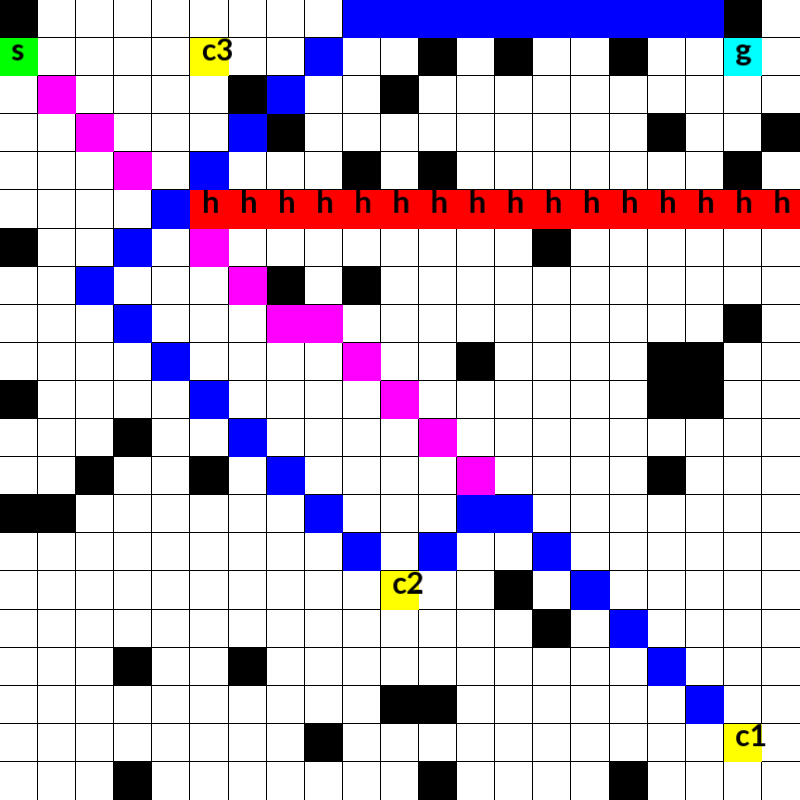
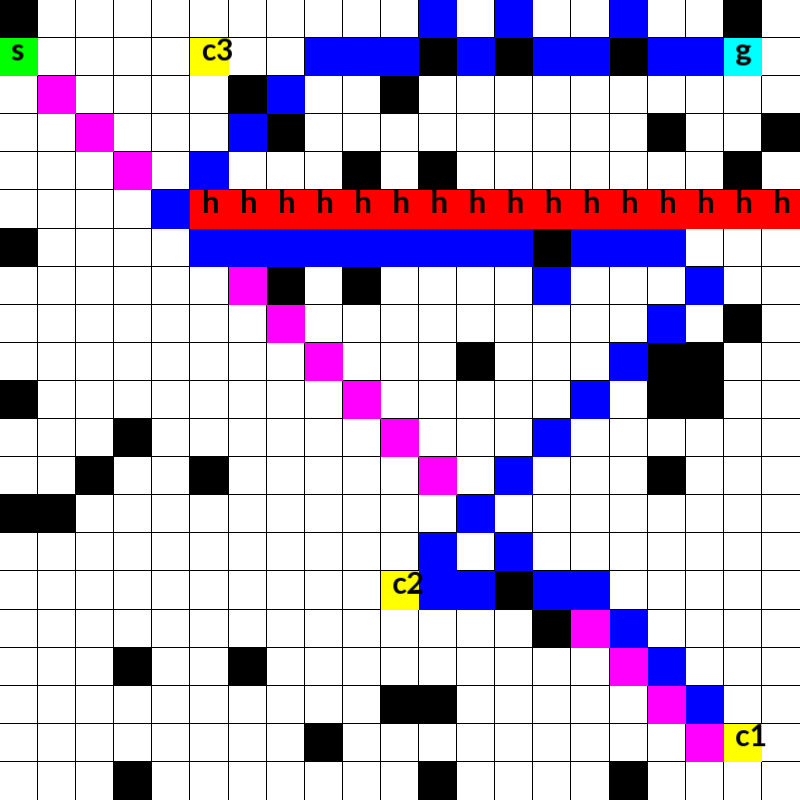
A* for search in task domain is implemented

diff --git a/LTLStuff/TEGProblem.cpp b/LTLStuff/TEGProblem.cpp
@@ -10,8 +10,9 @@ TEGProblem::TEGProblem(const string formula_str,
             const map<string, set<GridState>> ap_mapping,
             const shared_ptr<GridWorldDomain> domain,
             const GridState& start_domain_state,
-            int problem_id, bool on_the_fly, bool cache, bool feedback)
+            int problem_id, bool on_the_fly, bool cache, bool feedback, bool use_landmarks)
     : domain_(domain), start_domain_state_(start_domain_state), problem_id_(problem_id), on_the_fly_(on_the_fly), cache_(cache),
+    use_landmarks_(use_landmarks),
     bdd_dict_(make_shared<spot::bdd_dict>()),
     dfa_manager_(make_shared<DFAManager>(bdd_dict_, feedback)),
     domain_manager_(make_shared<DomainManager>(bdd_dict_, domain_, ap_mapping)),
@@ -160,17 +161,31 @@ void TEGProblem::realize_dfa_trace(shared_ptr<DFANode>& endTraceNode) {
 
     size_t dfa_start_state = dfa_trace.front();
     ProductState start_state(start_domain_state_, dfa_start_state);
-    // TODO: change to a map of priority queues!!!  
-    
-    map<size_t, priority_queue<pair<int, ProductState>, vector<pair<int, ProductState>>, greater<pair<int, ProductState>>>> regionQueues;
-
-    regionQueues[dfa_start_state].push(make_pair(SUCCESS_COST, start_state));
 
     size_t currentRegionIndex = 0;
     size_t maxRegionIndexReached = 0;
 
     set<ProductState> visited;
     visited.insert(start_state);
+
+    // Initialize a map of priority queues 
+    // (one queue for each DFA state in the trace)
+    map<size_t, priority_queue<pair<int, ProductState>, vector<pair<int, ProductState>>, greater<pair<int, ProductState>>>> regionQueues;
+
+    int curr_state_heuristic;
+    int next_state_heuristic;
+
+    // We need this for computing heuristics.
+    map<size_t, set<GridState>> landmarks;
+
+    if (use_landmarks_) {
+        auto next_dfa_edge_condition = dfa_nodes.at(1)->getParentEdgeCondition();
+        landmarks[dfa_start_state] = product_manager_->sample_landmarks(next_dfa_edge_condition, start_domain_state_);
+
+        curr_state_heuristic = start_state.compute_heuristic_cost(landmarks[dfa_start_state]);
+    }
+
+    regionQueues[dfa_start_state].push(make_pair(curr_state_heuristic, start_state));
 
     map<ProductState, vector<ProductState>> parent_map;
 
@@ -190,7 +205,7 @@ void TEGProblem::realize_dfa_trace(shared_ptr<DFANode>& endTraceNode) {
         // Queue is not empty!
         auto current_state_pair = queue.top();
         ProductState current_state = current_state_pair.second;
-        cout << "Popped the state " << current_state << " with score " << current_state_pair.first << endl;
+        // cout << "Popped the state " << current_state << " with score " << current_state_pair.first << endl;
         queue.pop();
 
         // Check if state was expanded?
@@ -244,11 +259,6 @@ void TEGProblem::realize_dfa_trace(shared_ptr<DFANode>& endTraceNode) {
 
                 currentRegionIndex++;
 
-                // TODO: compute landmarks for the next DFA region:
-                // 1) Sample k points in the next equivalence region (aka landmarks). 
-                // 2) Define heuristic as a distance to the closest sampled point.
-                // 3) Not an admissible heuristic but we don't care about optimality of the path, so it's fine.
-
                 // Remember the last dfa state we were able to reach.
                 if (maxRegionIndexReached < currentRegionIndex) {
                     maxRegionIndexReached = currentRegionIndex;
@@ -262,12 +272,30 @@ void TEGProblem::realize_dfa_trace(shared_ptr<DFANode>& endTraceNode) {
                     return;
                 }
 
+                // Compute landmarks for the next DFA region:
+                // 1) Sample k points in the next equivalence region (aka landmarks). 
+                // 2) Define heuristic as a distance to the closest sampled point.
+                // 3) Not an admissible heuristic but we don't care about optimality of the path, so it's fine.
+
+                if (use_landmarks_ && landmarks.count(next_dfa_state) == 0) {
+                    auto next_dfa_edge_condition = dfa_nodes.at(currentRegionIndex + 1)->getParentEdgeCondition();
+                    landmarks[next_dfa_state] = product_manager_->sample_landmarks(next_dfa_edge_condition, next_state.get_domain_state());
+                }
+
             } 
 
-            // TODO: compute the heuristic score for this state and push it into the queue.
+            // Compute the heuristic score for this state and push it into the queue.
+            int curr_state_cost = current_state_pair.first;
+            // Default cost of an edge is 1.
+            int next_state_cost = curr_state_cost + DEFAULT_COST; 
+            if (use_landmarks_) {
+                int curr_heuristic_cost = current_state.compute_heuristic_cost(landmarks[curr_dfa_state]);
+                int next_heuristic_cost = next_state.compute_heuristic_cost(landmarks[next_dfa_state]);
+                next_state_cost += (next_heuristic_cost - curr_heuristic_cost);
+            }
 
             // Push this new product state onto the corresponding queue.
-            regionQueues[next_dfa_state].push(make_pair(current_state_pair.first + DEFAULT_COST, next_state));
+            regionQueues[next_dfa_state].push(make_pair(next_state_cost, next_state));
             // This state has been visited now!
             visited.insert(next_state);
         }
@@ -276,6 +304,7 @@ void TEGProblem::realize_dfa_trace(shared_ptr<DFANode>& endTraceNode) {
     // Update the cost for the dfa transition we couldn't realize.
     dfa_manager_->update_dfa_transition_cost(dfa_nodes.at(maxRegionIndexReached + 1), FAILURE_COST);
 }
+
 
 vector<ProductState> TEGProblem::construct_path(const map<ProductState, vector<ProductState>>& parent_map, ProductState target_state, bool cached, size_t start_dfa_state) {
     vector<ProductState> path;

diff --git a/LTLStuff/ProductManager.cpp b/LTLStuff/ProductManager.cpp
@@ -1,5 +1,8 @@
 #include "ProductManager.h"
 
+#include <algorithm> 
+#include <iterator>
+
 using namespace std;
 
 ProductManager::ProductManager(shared_ptr<DomainManager> domain_manager, 
@@ -88,4 +91,38 @@ void ProductManager::print_product_transitions(int in_dfa_state, int out_dfa_sta
             std::cout << endl;
         }
     }
+}
+
+set<GridState> ProductManager::sample_landmarks(const bdd& edge_cond, const GridState& curr_domain_state, size_t num_landmarks) {
+    auto curr_state_bdd = domain_manager_->get_state_bdd(curr_domain_state);
+
+    vector<GridState> potential_landmarks;
+
+    for (const auto& pair : domain_manager_->get_bdd_to_states_map()) {
+        bdd equiv_group_bdd = pair.first;
+        const set<GridState>& domain_states = pair.second;
+
+        if (equiv_group_bdd == curr_state_bdd) {
+            // Skip it: this is the current equivalence group.
+            continue;
+        }
+
+        if (dfa_manager_->is_transition_valid(edge_cond, equiv_group_bdd)) {
+            // Insert elements from set to vector
+            // Might need to make more efficient later.
+            copy(domain_states.begin(), domain_states.end(), back_inserter(potential_landmarks));
+        }
+    }
+
+    // Shuffle and select a subset as landmarks
+    random_device rd;
+    mt19937 g(rd());
+    shuffle(potential_landmarks.begin(), potential_landmarks.end(), g);
+
+    set<GridState> landmarks;
+    for (size_t i = 0; i < min(num_landmarks, potential_landmarks.size()); ++i) {
+        landmarks.insert(potential_landmarks[i]);
+    }
+
+    return landmarks;
 }

diff --git a/LTLStuff/ProductState.h b/LTLStuff/ProductState.h
@@ -8,7 +8,7 @@
 class ProductState {
 public:
     ProductState(const GridState& domain_state, size_t dfa_state)
-    : domain_state_(domain_state), dfa_state_(dfa_state) {}
+    : domain_state_(domain_state), dfa_state_(dfa_state), heuristic_cost_(INT_MAX) {}
 
     // Accessor methods
     GridState get_domain_state() const {
@@ -25,6 +25,24 @@ public:
 
     void cache() { 
         domain_state_.cache();  
+    }
+
+    double distance(const ProductState& other) const {
+        return domain_state_.distance(other.domain_state_);
+    }
+
+    int compute_heuristic_cost(const std::set<GridState>& landmarks) {
+        if (heuristic_cost_ != INT_MAX) {
+            // Has been already computed
+            return heuristic_cost_;
+        }
+        for (const auto& landmark_state : landmarks) {
+            int currentDistance = domain_state_.distance(landmark_state);
+            if (currentDistance < heuristic_cost_) {
+                heuristic_cost_ = currentDistance;
+            }
+        }
+        return heuristic_cost_;
     }
 
     bool operator==(const ProductState& other) const {
@@ -46,6 +64,7 @@ public:
 private:
     GridState domain_state_;
     size_t dfa_state_;
+    int heuristic_cost_;
 };
 
 inline std::ostream& operator<<(std::ostream& os, const ProductState& ps) {

diff --git a/LTLStuff/DFANode.h b/LTLStuff/DFANode.h
@@ -22,7 +22,7 @@ using NodeHeap = boost::heap::fibonacci_heap<
 
 class DFANode : public std::enable_shared_from_this<DFANode>{
 public:
-    DFANode(size_t state, std::shared_ptr<DFANode> parent=nullptr, int parent_edge_cost=DEFAULT_COST, bdd selfEdgeCondition=bdd_true(), bdd parentEdgeCondition=bdd_true());
+    DFANode(size_t state, std::shared_ptr<DFANode> parent=nullptr, int parent_edge_cost=DEFAULT_COST, bdd parentEdgeCondition=bdd_true(), bdd selfEdgeCondition=bdd_true());
 
     // Getters
     size_t getState() const;
@@ -34,8 +34,8 @@ public:
 
     bool updateParentEdgeCost(int new_parent_edge_cost, const std::map<std::shared_ptr<DFANode>, NodeHeap::handle_type>& node_handles, NodeHeap& node_priority_queue);
     
-    bdd getSelfEdgeCondition() const;
-    bdd getParentEdgeCondition() const;
+    bdd& getSelfEdgeCondition();
+    bdd& getParentEdgeCondition();
 
     // Setters
     void addChild(std::shared_ptr<DFANode> child);
@@ -56,8 +56,8 @@ private:
     int parent_edge_cost_;
     int path_from_root_cost_;
 
-    bdd self_edge_condition_;
     bdd parent_edge_condition_;
+    bdd self_edge_condition_;
 
     bool reachable_;
 };

diff --git a/GridWorld/GridState.h b/GridWorld/GridState.h
@@ -2,6 +2,7 @@
 #define GRID_STATE_H
 
 #include <iostream>
+#include <cmath>
 #include "GridAction.h"
 
 class GridState {
@@ -36,6 +37,22 @@ public:
     // Apply a GridAction to the current state and return the resulting state.
     GridState apply(const GridAction& action) const {
         return GridState(x_ + action.deltaX(), y_ + action.deltaY());
+    }
+
+    // Calculate Euclidean distance to another GridState
+    double distance(const GridState& other) const {
+        return std::pow(static_cast<double>(x_) - other.x_, 2) +
+                         std::pow(static_cast<double>(y_) - other.y_, 2);
+    }
+
+    double euclideanDistance(const GridState& other) const {
+        return std::sqrt(std::pow(static_cast<double>(x_) - other.x_, 2) +
+                         std::pow(static_cast<double>(y_) - other.y_, 2));
+    }
+
+    size_t manhattanDistance(const GridState& other) const {
+        return std::abs(static_cast<int>(x_) - static_cast<int>(other.x_)) +
+               std::abs(static_cast<int>(y_) - static_cast<int>(other.y_));
     }
 
 

diff --git a/LTLStuff/DFANode.cpp b/LTLStuff/DFANode.cpp
@@ -1,10 +1,10 @@
 #include "DFANode.h"
 
-DFANode::DFANode(size_t state, std::shared_ptr<DFANode> parent, int parent_edge_cost, bdd selfEdgeCondition, bdd parentEdgeCondition)
+DFANode::DFANode(size_t state, std::shared_ptr<DFANode> parent, int parent_edge_cost, bdd parentEdgeCondition, bdd selfEdgeCondition)
     : dfa_state_(state), parent_(parent),
     parent_edge_cost_(parent_edge_cost),
-    self_edge_condition_(selfEdgeCondition),
     parent_edge_condition_(parentEdgeCondition),
+    self_edge_condition_(selfEdgeCondition),
     reachable_(true) {
         if (!parent_) {
             // This is a root node (initial dfa state).
@@ -38,11 +38,11 @@ int DFANode::getPathCost() const {
     return path_from_root_cost_;
 }
 
-bdd DFANode::getSelfEdgeCondition() const {
+bdd& DFANode::getSelfEdgeCondition() {
     return self_edge_condition_;
 }
 
-bdd DFANode::getParentEdgeCondition() const {
+bdd& DFANode::getParentEdgeCondition() {
     return parent_edge_condition_;
 }
 

diff --git a/main.cpp b/main.cpp
@@ -24,6 +24,9 @@ int main() {
     // Real-time planning feedback: success and failure scores used.
     bool feedback = true;
 
+    // Support for equivalence regions guidance: informed search in task domain.
+    bool use_landmarks = true;
+
     // GridWorldDomain dimensions.
     double scale = 1; 
     size_t R = 20 * scale + 1;
@@ -75,7 +78,7 @@ int main() {
         cout << "Solving for problem_id=" << problem_id << " and formula=" << formula << endl;
 
         // Initialize the TEG Problem.
-        TEGProblem problem(formula, ap_mapping, domain, start_grid_state, problem_id, on_the_fly, cache, feedback);
+        TEGProblem problem(formula, ap_mapping, domain, start_grid_state, problem_id, on_the_fly, cache, feedback, use_landmarks);
 
         auto start = chrono::high_resolution_clock::now();
 

diff --git a/LTLStuff/ProductManager.h b/LTLStuff/ProductManager.h
@@ -5,6 +5,7 @@
 #include <vector>
 #include <map>
 #include <set>
+#include <random>
 #include "ProductState.h"
 #include "ProductTransition.h"
 #include "GridWorldDomain.h"
@@ -27,11 +28,14 @@ public:
 
     void print_product_transitions(int in_dfa_state=-1, int out_dfa_state=-1);
 
+    set<GridState> sample_landmarks(const bdd& edge_cond, const GridState& curr_domain_state, size_t num_landmarks=NUM_LANDMARKS);
+
 private:
     std::shared_ptr<DomainManager> domain_manager_;
     std::shared_ptr<DFAManager> dfa_manager_;
     std::vector<ProductState> product_states_;
     std::map<ProductState, std::vector<ProductTransition>> product_transitions_;
+    static const size_t NUM_LANDMARKS = 100;
 };
 
 #endif // PRODUCTMANAGER_H

diff --git a/LTLStuff/TEGProblem.h b/LTLStuff/TEGProblem.h
@@ -29,7 +29,7 @@ public:
             const map<string, set<GridState>> ap_mapping,
             const shared_ptr<GridWorldDomain> domain,
             const GridState& start_domain_state,
-            int problem_id = 0, bool on_the_fly=false, bool cache=false, bool feedback=false);
+            int problem_id = 0, bool on_the_fly=false, bool cache=false, bool feedback=false, bool use_landmarks=false);
 
     ~TEGProblem();
     
@@ -60,6 +60,7 @@ private:
     int problem_id_;
     bool on_the_fly_;
     bool cache_;
+    bool use_landmarks_;
 
     // DFA corresponding to LTL formula.
     spot::bdd_dict_ptr bdd_dict_;

diff --git a/LTLStuff/DFAManager.cpp b/LTLStuff/DFAManager.cpp
@@ -168,7 +168,7 @@ shared_ptr<DFANode> DFAManager::generate_dfa_path() {
                 int edge_cost = dfa_transition_cost(current_dfa_state, next_dfa_state);
                 int total_cost = currentNodePair.first + edge_cost;
 
-                auto childNode = make_shared<DFANode>(next_dfa_state, currentNode, edge_cost);
+                auto childNode = make_shared<DFANode>(next_dfa_state, currentNode, edge_cost, edge.cond);
                 currentNode->addChild(childNode);
 
                 auto handle = nodePriorityQueue_.push(make_pair(total_cost, childNode));

diff --git a/LTLStuff/DomainManager.cpp b/LTLStuff/DomainManager.cpp
@@ -91,3 +91,17 @@ set<string> DomainManager::atomic_props(const GridState& domain_state) {
 
     return props;
 }
+
+set<bdd, BddComparator> DomainManager::get_all_equivalence_regions() {
+    set<bdd, BddComparator> equivalence_regions;
+
+    for (const auto& pair : bdd_to_states_) {
+        equivalence_regions.insert(pair.first);
+    }
+
+    return equivalence_regions;
+}
+
+map<bdd, set<GridState>, BddComparator>& DomainManager::get_bdd_to_states_map() {
+    return bdd_to_states_;
+}

diff --git a/LTLStuff/DomainManager.h b/LTLStuff/DomainManager.h
@@ -22,8 +22,9 @@ public:
 
     bdd get_state_bdd(const GridState& domain_state);
     set<GridState>& get_equivalence_region(bdd& equiv_region_bdd);
+    set<bdd, BddComparator> get_all_equivalence_regions();
+    map<bdd, set<GridState>, BddComparator>& get_bdd_to_states_map();
     set<string> atomic_props(const GridState& domain_state);
-
 
 private:
 
